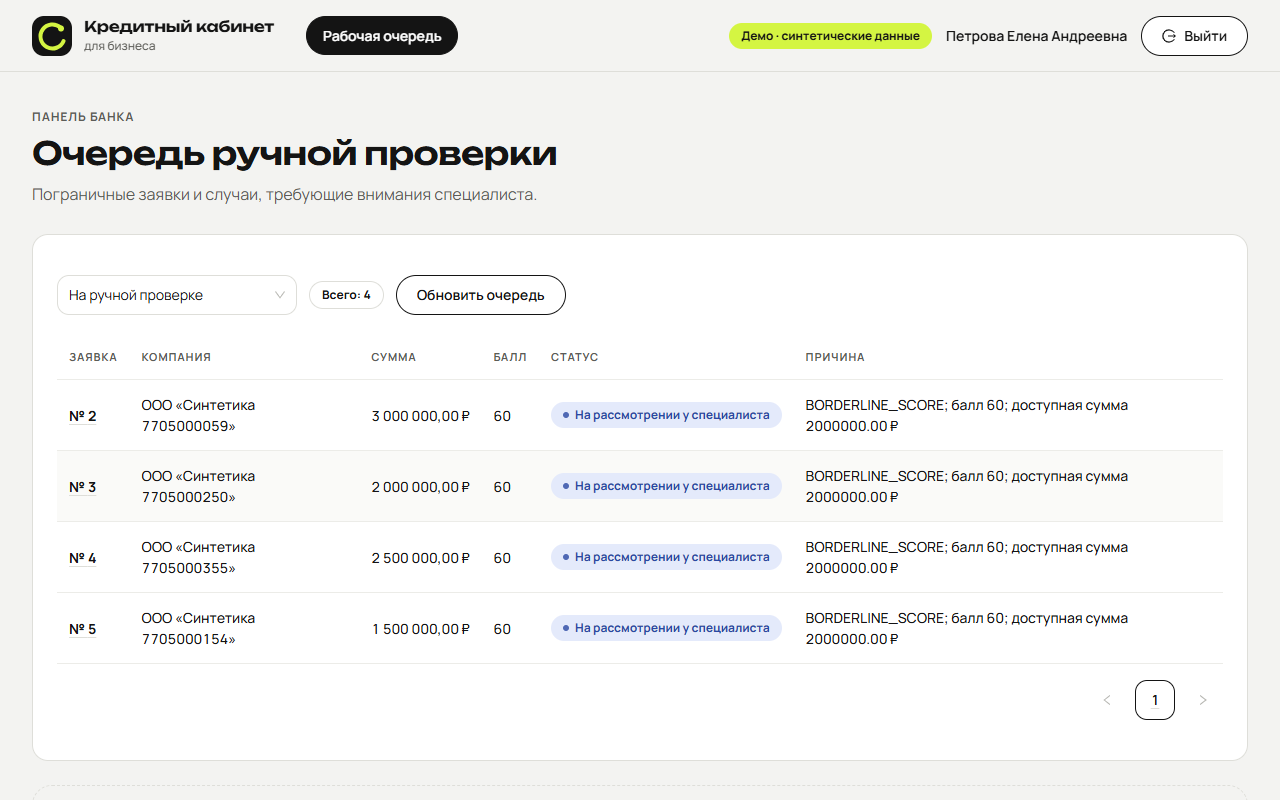
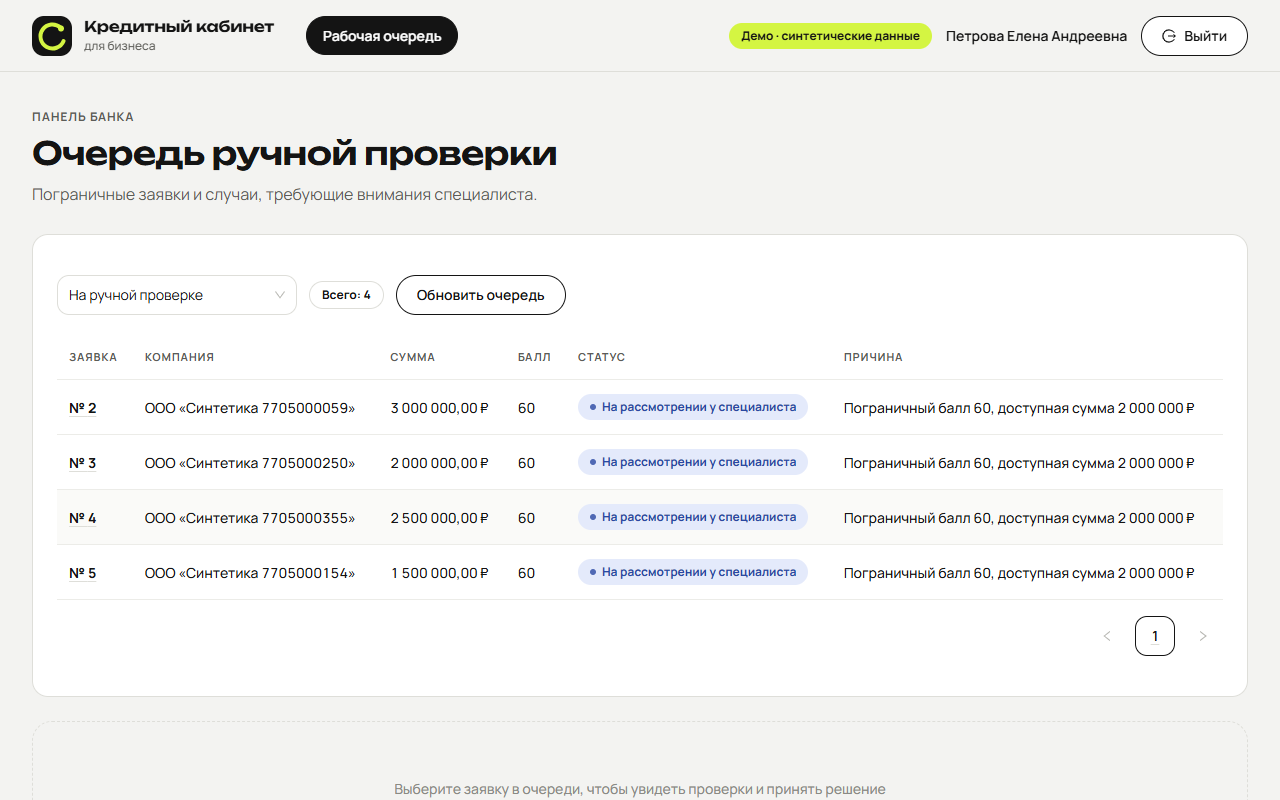
docs(media): пересъёмка скриншотов и гифок с человеческими подписями (8.3), итоги сессии 8

diff --git a/docs/verification.md b/docs/verification.md
@@ -164,3 +164,15 @@ Backend покрывает пороги 39/40/69/70, стоп-факторы и 
 - Переключатель на экране входа обрезает подпись «Зарегистрироваться по ИНН» до «Зарегистрироваться …».
 - Шапка липкая и перекрывает верх карточки при прокрутке, из-за чего приходилось прокручивать с запасом.
 - Сумма в поле мастера показывается как `2000000.00`, без разделителей разрядов.
+
+## Сессия 8: порт БД и человеческие подписи
+
+| Пункт | Что сделано | Файлы | Проверки |
+|---|---|---|---|
+| 8.1 | Порт БД не публикуется на хост по умолчанию: api и tests ходят к `db:5432` по внутренней сети. Для разработки порт `127.0.0.1:5433` открывает `docker-compose.override.example.yml` (подключается через `-f`, файл `docker-compose.override.yml` в `.gitignore`). Остальные опубликованные порты (3000, 8000, 8081) ниже 49152, замена не нужна. CI использует собственный сервис PostgreSQL на 5432, 55432 в нём не было. | `docker-compose.yml`, `docker-compose.override.example.yml`, `.env.example`, `.gitignore`, `backend/tests/conftest.py`, `README.md`, `docs/decisions.md`, `docs/targets.md` | `docker compose config` валиден; `up -d db mocks` без `--build` поднялся; `pytest tests` через порт 5433: 284 passed |
+| 8.2 | Подписи и форматирование на фронте (`format.ts`): ЕГРЮЛ/ФНС/БКИ, русские названия статусов в аудите (справочник `statusNames`, API аудита отдаёт только коды), «Да/Нет», отрасли, числа с разделителями и не более 2 знаков, доли в процентах, ставки с запятой («надбавка 0%»), разбор причины в очереди с фолбэком на исходный текст, разделители разрядов в поле суммы, перенос подписи переключателя входа | `frontend/src/format.ts`, `Bank.tsx`, `ApplicationPage.tsx`, `style.css` | `npm run typecheck`, `npm run build` |
+| 8.3 | Медиа пересняты на чистой БД (`down -v`, миграции, seed, локальные `uvicorn` и `npm run dev`), 6 тестов из 6 прошли | `docs/media/*` | каждая гифка меньше 4 МБ (3,56 / 3,62 / 3,37 МБ), всё медиа 11,5 МБ (лимит 15 МБ) |
+
+Изменённые ожидания e2e (не запускались, нужен стенд с Docker): `frontend/e2e/credit.spec.ts:35`, значение поля суммы `1500000.00` → `1 500 000.00`. Остальные селекторы старых текстов не использовали.
+
+Ограничения: тексты `ruleText` и `limit.text` приходят готовой строкой из API, суммы и ставки в них приводятся к русскому формату регулярными выражениями на фронте. В `docs/decisions.md` добавлена запись о порте БД.
